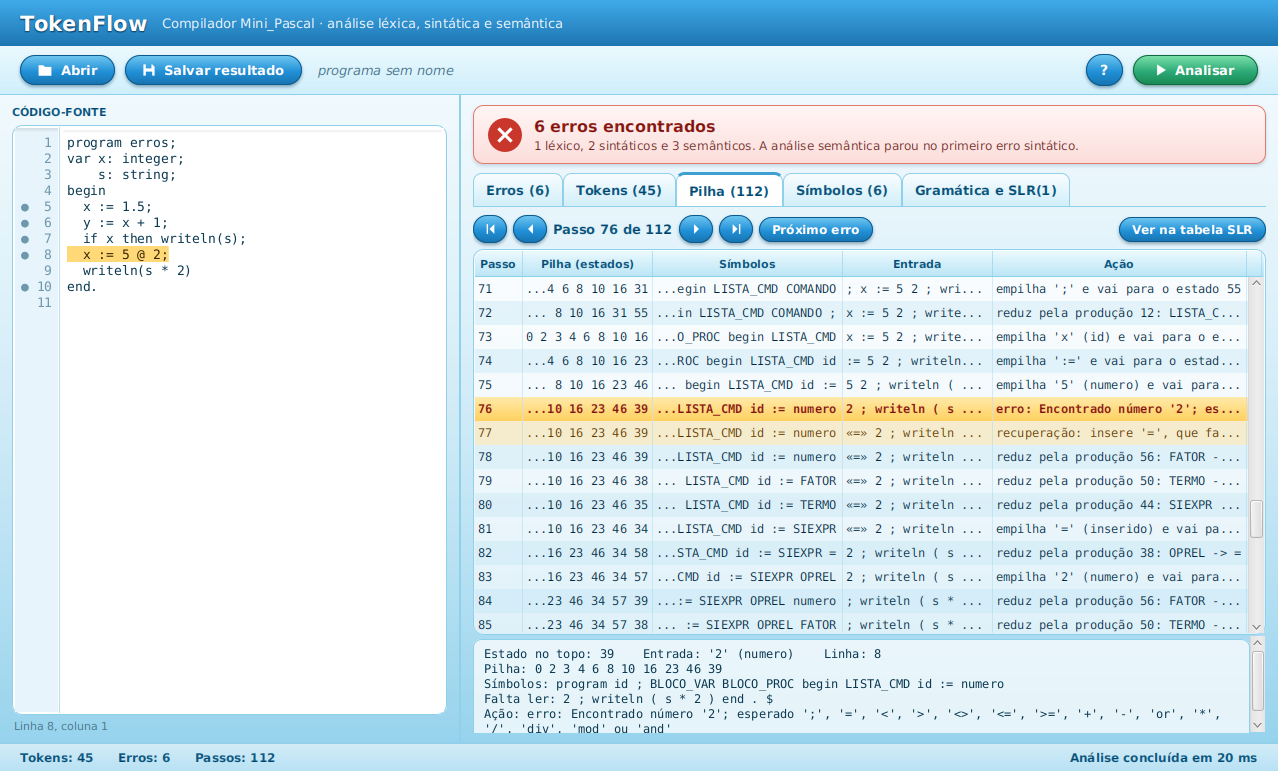
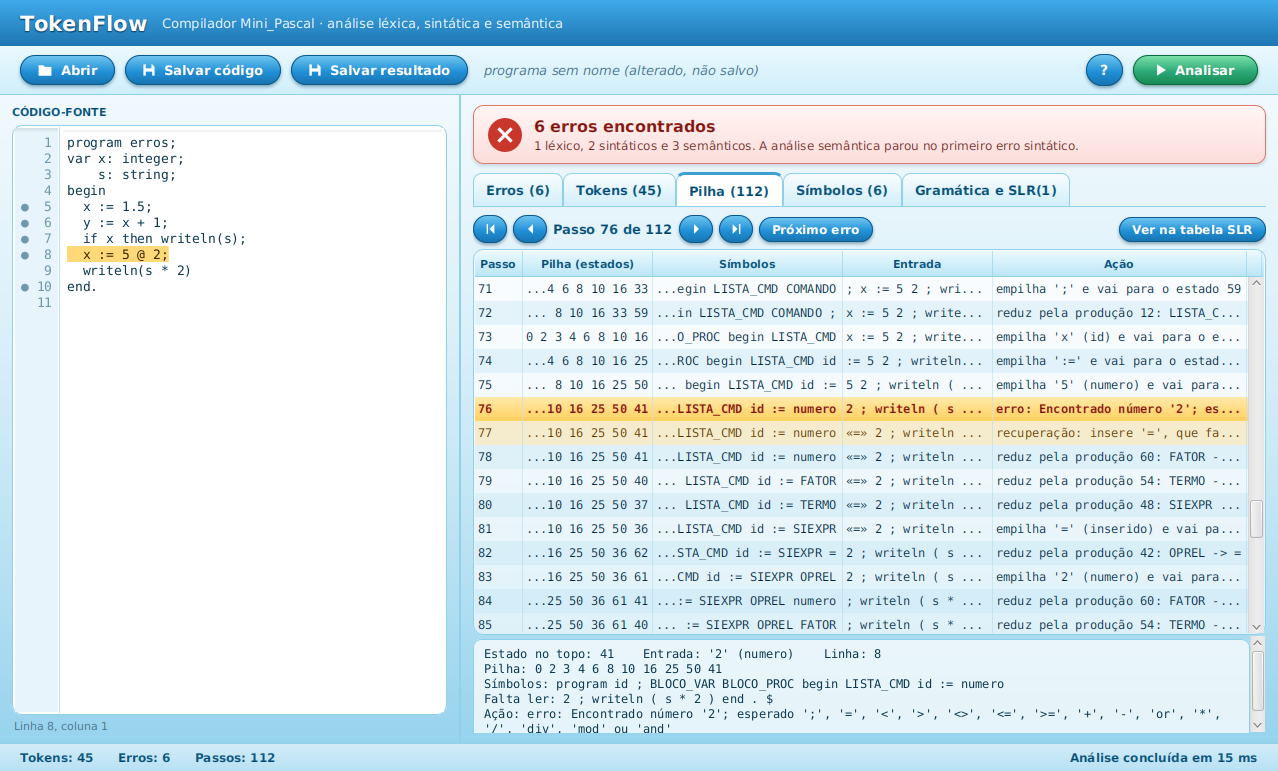
docs: README com o for, as correcoes da interface e da linha de comando

diff --git a/README.md b/README.md
@@ -8,7 +8,7 @@
 
 ![Java](https://img.shields.io/badge/Java-8-orange?logo=openjdk&logoColor=white)
 ![JavaFX](https://img.shields.io/badge/JavaFX-Interface%20Gráfica-blue?logo=java&logoColor=white)
-![Testes](https://img.shields.io/badge/testes%20automatizados-673%20passing-success)
+![Testes](https://img.shields.io/badge/testes%20automatizados-712%20passing-success)
 
 </div>
 
@@ -52,8 +52,8 @@ seguem a ordem das fases do compilador:
 
 Clicar num erro, token, passo ou símbolo seleciona a linha correspondente no código. Com um
 passo selecionado, **Ver na tabela SLR** abre a tabela ACTION/GOTO na célula que o analisador
-usou naquele passo. Atalhos: `Ctrl+O` abre um arquivo, `F5` ou `Ctrl+Enter` analisa e `Ctrl+S`
-salva o resultado; o botão `?` resume tudo isso.
+usou naquele passo. Atalhos: `Ctrl+O` abre um arquivo, `Ctrl+Shift+S` salva o código do editor,
+`F5` ou `Ctrl+Enter` analisa e `Ctrl+S` salva o resultado; o botão `?` resume tudo isso.
 
 ![Tela do TokenFlow: pilha da análise parada num erro sintático](docs/screenshot.png)
 
@@ -85,7 +85,7 @@ compara com o analisador.
 **Análise sintática**
 
 - ✅ Gramática do enunciado em arquivo de texto (`gramatica.txt`), convertida para GLC, sem
-  conflitos SLR(1): 61 produções, 120 estados
+  conflitos SLR(1): 65 produções, 132 estados
 - ✅ Gerador próprio de tabelas SLR(1): FIRST, FOLLOW, coleção canônica LR(0), tabelas
   ACTION/GOTO, recusa de qualquer conflito, relatório completo e tabela em CSV
 - ✅ Analisador empilha/reduz com pilha de estados e pilha de atributos, onde a análise
@@ -111,14 +111,21 @@ compara com o analisador.
 **Interface gráfica**
 
 - ✅ Carregar um `.txt` **ou** digitar/colar código direto na tela, com números de linha
-- ✅ Resultado da análise completa (`OK` ou os erros) e salvamento em arquivo UTF-8
+- ✅ Resultado da análise completa (`OK` ou os erros) e salvamento em arquivo UTF-8; se o
+  código mudou depois da análise, ele é analisado de novo antes de salvar, e o resultado não
+  pode ser gravado por cima do arquivo do programa
+- ✅ Salvar o código do editor; abrir outro arquivo ou fechar a janela com alterações não
+  salvas pergunta antes de descartá-las
+- ✅ Mesmo resultado da linha de comando para qualquer arquivo: quebras de linha `\r\n` e `\r`
+  viram `\n` ao carregar, e caracteres de controle (invisíveis) aparecem como `□`, a mesma
+  marca das mensagens de erro
 - ✅ Pilha do SLR(1) passo a passo, ligada ao código e à tabela ACTION/GOTO
 - ✅ Tokens, tabela de símbolos, gramática, FIRST/FOLLOW e estados LR(0)
 - ✅ Aviso quando o código muda depois da análise; atalhos de teclado e ajuda
 
 **Testes**
 
-- ✅ **673 verificações automatizadas** em 17 suítes, sem JUnit: casos absurdos e de robustez
+- ✅ **712 verificações automatizadas** em 17 suítes, sem JUnit: casos absurdos e de robustez
   do léxico (número colado em identificador, comentário "aninhado", CRLF e CR solto, emoji,
   arquivo ANSI/UTF-16, locale turco...), tabelas SLR conferidas com o livro do Dragão,
   mensagens de erro exatas, programas gerados a partir da gramática, recuperação de erros
@@ -127,8 +134,8 @@ compara com o analisador.
   escopos, programas gerados bem tipados e com um erro injetado de cada tipo), regras de
   arquitetura e os arquivos de teste da Unidade II
 - ✅ 8 arquivos de teste de integração do léxico, incluindo os dois exemplos do enunciado
-- ✅ 10 arquivos de teste da Unidade II (dois programas corretos, um para cada tipo de erro,
-  um com erros misturados e o programa da apresentação), cada um com o resultado esperado
+- ✅ 11 arquivos de teste da Unidade II (dois programas corretos, um para cada tipo de erro,
+  um para o `for`, um com erros misturados e o programa da apresentação), cada um com o resultado esperado
   conferido à mão
 
 ## Arquitetura
@@ -155,7 +162,7 @@ src/minipascal/
 │   │                TabelaSimbolos, Simbolo, Tipo, Compilador (as três fases juntas)
 │   └── verificacao/  suítes da análise semântica
 ├── cli/           → linha de comando: AnaliseLexica, AnaliseSintatica, AnaliseSemantica,
-│                    GeradorTabelas, Console
+│                    GeradorTabelas, Console, Caminhos
 ├── gui/           → interface JavaFX: MainApp, AnalisadorController, Main.fxml,
 │                    EditorCodigo, PainelSLR, application.css, icon.png
 └── verificacao/   → VerificacaoArquitetura (regras entre os módulos)
@@ -215,6 +222,10 @@ Se o `PATH` apontar para outro Java, chame o JDK 8 pelo caminho completo:
   (`gramatica.txt` ou `expressoes.txt`). Grava `<nome>_tabela_slr.txt` (gramática numerada,
   FIRST, FOLLOW, estados LR(0) com itens e transições, tabela e conflitos) e
   `<nome>_tabela_slr.csv`. Código de saída 1 se a gramática for inválida ou tiver conflitos.
+
+Antes de analisar, os caminhos são conferidos: entrada que é uma pasta, saída igual à entrada,
+saída que é uma pasta ou pasta de saída que não existe dão uma mensagem dizendo isso (e código
+de saída 1), sem analisar nem gravar nada.
 
 No console os acentos são removidos, porque o console do Windows com Java 8 não os mostra;
 os arquivos gravados ficam em UTF-8, com acentos.
@@ -304,7 +315,7 @@ resultados esperados foram conferidos e traz o roteiro da apresentação.
 
 | Arquivo | O que testa | Resultado |
 |---|---|---|
-| `01_programa_completo.txt` | Programa correto com toda a linguagem | `OK` |
+| `01_programa_completo.txt` | Programa correto com toda a linguagem (inclusive o `for`) | `OK` |
 | `02_erros_lexicos.txt` | Caracteres inválidos, número mal formado, char com dois caracteres e comentário sem fechar | 10 erros léxicos |
 | `03_erros_sintaticos.txt` | Símbolos faltando ou trocados, e a recuperação | 10 erros sintáticos |
 | `04_erros_semanticos_nomes.txt` | Declarações repetidas, nomes não declarados, escopo, categoria | 16 erros semânticos |
@@ -312,6 +323,7 @@ resultados esperados foram conferidos e traz o roteiro da apresentação.
 | `06_erros_semanticos_chamadas.txt` | Argumentos, parâmetros `var`, `read`/`write`/`writeln` | 19 erros semânticos |
 | `07_escopos.txt` | Procedimentos aninhados, nomes escondidos, recursão | `OK` |
 | `08_erros_misturados.txt` | Erros das três fases juntos | 10 erros |
+| `09_comando_for.txt` | `for` correto (to, downto, char, aninhado) e cada regra do `for` | 10 erros semânticos |
 | `apresentacao.txt` | Programa da apresentação, com um erro de cada fase | 4 erros |
 | `apresentacao_corrigido.txt` | O mesmo programa corrigido | `OK` |
 
@@ -319,7 +331,7 @@ resultados esperados foram conferidos e traz o roteiro da apresentação.
 
 A gramática fica em `src/minipascal/sintatico/gramatica/gramatica.txt`, uma regra por linha
 (`EXPR -> SIEXPR | SIEXPR OPREL SIEXPR`, não terminais em MAIÚSCULAS, `ε` para a produção
-vazia). É a gramática do enunciado convertida de EBNF para GLC, com seis modificações,
+vazia). É a gramática do enunciado convertida de EBNF para GLC, com sete modificações,
 descritas também no começo do arquivo:
 
 1. **Sinal `-` em SIEXPR.** No enunciado aparece `""` (aspas vazias) no lugar do sinal.
@@ -341,8 +353,15 @@ descritas também no começo do arquivo:
    de `*`, `div` e `mod`) e `or` em SIEXPR (junto de `+` e `-`). Como no Pascal, comparações
    ligadas por `and`/`or` precisam de parênteses: `(a < b) and (c < d)`; sem eles,
    `a < b and c < d` é lido como `a < (b and c) < d`, que é erro de sintaxe.
+7. **Comando `for`**, como no Pascal: `for i := 1 to 10 do ...` e `for i := 10 downto 1 do
+   ...`. O enunciado reserva `for`, `to` e `downto` (e o exemplo Piloto usa `for`), mas a
+   gramática da Unidade II não tinha o comando. Segue o `while`, com uma versão fechada e uma
+   aberta (modificação 3), e o cabeçalho vira um não terminal próprio,
+   `CAB_FOR -> for id := EXPR to EXPR | for id := EXPR downto EXPR`, pelo mesmo motivo do
+   `CAB_PROC`: ao reduzi-lo, antes do corpo, a análise semântica confere a variável de
+   controle e os limites.
 
-Resultado: 61 produções, 22 não terminais, 37 terminais (mais o `$`), 120 estados LR(0) e nenhum
+Resultado: 65 produções, 23 não terminais, 40 terminais (mais o `$`), 132 estados LR(0) e nenhum
 conflito.
 Também vem embutido `expressoes.txt`, o subconjunto das expressões usado na primeira etapa
 (22 produções, 34 estados), sem os operadores da modificação 6.
@@ -351,8 +370,8 @@ O gerador recusa qualquer gramática com conflito, produção repetida, não ter
 produção, inalcançável ou que não deriva terminais, sempre com a mensagem indicando onde
 está o problema.
 
-O que a gramática não aceita (e por isso vale como limitação da linguagem): `for`,
-`repeat`, `const`, funções, `;` antes do `else`, comparações ligadas por `and`/`or` sem
+O que a gramática não aceita (e por isso vale como limitação da linguagem): `repeat`,
+`case`, `const`, funções, `;` antes do `else`, comparações ligadas por `and`/`or` sem
 parênteses e parênteses vazios na declaração de procedimento. `read`, `write` e `writeln` são aceitos como chamadas de
 procedimento.
 
@@ -373,8 +392,8 @@ para que uma única execução mostre o conjunto dos erros do programa, como ped
 - **Sem cascata**: como a retomada escolhida sempre empilha pelo menos 4 tokens sem erro, um
   erro que é só consequência do anterior não aparece. O número 4 foi escolhido medindo, em
   milhares de programas com erros inseridos de propósito, quantos erros são encontrados e
-  quantos erros falsos aparecem: com 3, construções que não existem no Mini_Pascal (como o
-  `for` do segundo exemplo do enunciado) geram um segundo erro em cascata; com 5, erros em
+  quantos erros falsos aparecem: com 3, construções que não existem no Mini_Pascal geram um
+  segundo erro em cascata; com 5, erros em
   linhas vizinhas deixam de ser encontrados. Por isso, dois erros a menos de 4 tokens um do
   outro contam como um só.
 - **Mensagens**: o primeiro erro de cada programa é exatamente o da análise sem recuperação
@@ -387,11 +406,11 @@ para que uma única execução mostre o conjunto dos erros do programa, como ped
 - Um caractere inválido some da entrada da análise sintática; se o que sobra estiver errado
   (como `x := 5 @ 2`, que vira `x := 5 2`), aparecem os dois erros, o léxico e o sintático.
 
-Exemplo, com o segundo programa do enunciado (`02_piloto.txt`), que usa `for` (fora da
-gramática):
+Exemplo, com o segundo programa do enunciado (`02_piloto.txt`), cujo `for` usa `=` no lugar
+de `:=`:
 
 ```
-Erro sintático na linha 11: Encontrado 'for'; esperado identificador, 'begin', 'end', 'if' ou 'while'
+Erro sintático na linha 11: Encontrado '='; esperado ':='
 ```
 
 O resto do programa (inclusive o `/` das linhas 17 e 21) é analisado normalmente depois da
@@ -433,6 +452,7 @@ conversões permitidas: `integer` em `real` e `char` em `string`.
 | `and`, `or`, `not` | operandos lógicos (comparações); o resultado é lógico |
 | `=` `<` `>` `<>` `<=` `>=` | números entre si, textos entre si ou lógicos entre si; o resultado é lógico |
 | condição do `if` e do `while` | lógica (uma comparação) |
+| `for v := a to b` (ou `downto`) | `v` é uma variável integer ou char; `a` e `b` são do tipo de `v`; dentro do laço, `v` não pode ser alterada (atribuição, `read`, parâmetro `var` ou outro `for`). Não é conferido, como no Pascal ISO, se um procedimento chamado no laço altera `v` por fora |
 | chamada de procedimento | mesmo número de argumentos e de parâmetros; parâmetro `var` recebe uma variável do mesmo tipo |
 | `read` | pelo menos um argumento, todos variáveis |
 | `write` / `writeln` | `write` com pelo menos um argumento; `writeln` com qualquer quantidade |
@@ -450,6 +470,8 @@ O operador 'div' exige operandos integer, mas recebeu real e integer
 O operador 'and' exige operandos lógicos (comparações), mas recebeu integer e integer
 Comparação entre tipos incompatíveis: integer e string
 A condição do 'if' deve ser lógica (uma comparação), mas é integer
+O valor inicial do 'for' deve ser integer, como a variável 'i', mas é real
+'i' é a variável de controle de um 'for' e não pode ser alterada dentro dele
 O procedimento 'q' tem 2 parâmetros, mas a chamada passa 3 argumentos
 Argumento 1 de 'q': o parâmetro 'r' é var e precisa receber uma variável
 Argumento 2 de 'q': o parâmetro 'v' é real e o argumento é string
@@ -485,6 +507,8 @@ ambíguo - todas documentadas e testadas:
 - **Separadores**: espaço, tabulação, `\f`, `\v` e quebras de linha são ignorados; qualquer outro
   caractere fora da linguagem é erro léxico
 - **Quebra de linha**: `\n`, `\r\n` e `\r` sozinho contam uma linha cada
+- **Caractere de controle** (invisível, como o código 1 ou o DEL) fora de string é erro léxico;
+  na mensagem e no editor da interface ele aparece como `□` (`Caractere inválido: □`)
 - **Codificação do arquivo**: UTF-8 (com ou sem BOM); se não for UTF-8 válido, lê como
   ANSI (ISO-8859-1), e UTF-16 com BOM também é reconhecido
 - **Constante char aceita exatamente 1 caractere** - vazio (`''`) ou múltiplo (`'ab'`) são um
@@ -546,6 +570,8 @@ Respostas às perguntas de projeto (a-e) da especificação:
   pode avisar um observador (`OuvinteAnalise`) a cada ação; a interface usa isso para mostrar
   a pilha passo a passo, e sem observador a análise é a mesma de antes.
 
+- Comando `for` (modificação 7 da gramática), com as regras do Pascal para a variável de
+  controle e os limites.
 - Arquivos de teste da Unidade II com os resultados esperados conferidos à mão, a suíte
   `VerificacaoTestesUnidade2` e o programa da apresentação, descritos em "Arquivos de teste
   da Unidade II".
@@ -579,4 +605,4 @@ Trabalho da disciplina de **Compiladores**, curso de Ciência da Computação - 
 
 <div align="center">
 <sub>Feito para a disciplina de Compiladores - UESB, 2026</sub>
-</div>
+</div>

diff --git a/testes-integracao/unidade2/README.md b/testes-integracao/unidade2/README.md
@@ -14,7 +14,7 @@ Na interface, basta abrir o arquivo (Ctrl+O) e clicar em Analisar (F5).
 
 | Arquivo | O que testa | Resultado |
 |---|---|---|
-| `01_programa_completo.txt` | Programa correto que usa toda a linguagem: os quatro tipos, vários blocos `var`, procedimentos sem parâmetros, com parâmetros por valor e `var`, recursão, `if` com e sem `else` (inclusive o `else` pendente), `while`, blocos `begin`/`end`, todos os operadores (inclusive `/`, `and`, `or` e `not`), sinal, notação científica, comparação de comparações, as conversões permitidas (integer em real, char em string), `read`/`write`/`writeln` e maiúsculas/minúsculas | `OK` |
+| `01_programa_completo.txt` | Programa correto que usa toda a linguagem: os quatro tipos, vários blocos `var`, procedimentos sem parâmetros, com parâmetros por valor e `var`, recursão, `if` com e sem `else` (inclusive o `else` pendente), `while`, `for` com `to` e `downto` (inclusive com variável char), blocos `begin`/`end`, todos os operadores (inclusive `/`, `and`, `or` e `not`), sinal, notação científica, comparação de comparações, as conversões permitidas (integer em real, char em string), `read`/`write`/`writeln` e maiúsculas/minúsculas | `OK` |
 | `02_erros_lexicos.txt` | Caracteres fora da linguagem (`#`, `$`, `!` de `!=`, `{`, `}`, `?`, `π`), número colado em letras (`12abc`), char com dois caracteres (`'ab'`) e comentário nunca fechado. Sem eles o programa fica correto, então só aparecem erros léxicos e a análise semântica vai até o fim. Também: identificador com acento, identificador com mais de 63 caracteres (truncado, sem erro), número real com expoente sem ponto (`2E-3`) e caracteres especiais dentro de string e comentário (sem erro) | 10 erros léxicos |
 | `03_erros_sintaticos.txt` | Vírgula faltando na declaração, `)` faltando, `then` e `do` faltando, `=` no lugar de `:=`, `;` antes do `else`, operador sem operando, comparações ligadas por `and` sem parênteses, `);` faltando e `.` final faltando. Cada erro diz o que era esperado, e a recuperação permite encontrar todos numa execução só | 10 erros sintáticos |
 | `04_erros_semanticos_nomes.txt` | Variável, parâmetro e procedimento declarados duas vezes no mesmo escopo; nome não declarado (relatado uma vez por escopo); variável local usada fora do procedimento; procedimento chamado antes de ser declarado; procedimento usado como variável e o contrário; atribuição ao nome do programa e a `read` | 16 erros semânticos |
@@ -22,6 +22,7 @@ Na interface, basta abrir o arquivo (Ctrl+O) e clicar em Analisar (F5).
 | `06_erros_semanticos_chamadas.txt` | Número de argumentos (a mais e a menos), tipo de cada argumento, parâmetro `var` recebendo constante, expressão, expressão entre parênteses e variável de outro tipo; `read` sem argumentos ou com expressão; `write` sem argumentos; `writeln` sem argumentos (válido) | 19 erros semânticos |
 | `07_escopos.txt` | Programa correto com procedimento dentro de procedimento (níveis 1, 2 e 3), parâmetro que esconde a variável de fora, uso de nomes de fora, recursão, nome do programa e `write` redeclarados, maiúsculas/minúsculas. A tabela de símbolos mostra cada escopo | `OK` |
 | `08_erros_misturados.txt` | Erros das três fases no mesmo programa: ordem por linha e, na mesma linha, pela posição; erro léxico que causa erro sintático (`5 @ 2`); string sem fechar; a análise semântica para no primeiro erro sintático (o erro de tipo da linha 18 não aparece), e a tabela de símbolos avisa isso | 4 léxicos, 3 sintáticos, 3 semânticos |
+| `09_comando_for.txt` | Comando `for`: corretos com `to` e `downto`, variável char, `for` dentro de `for`, de `if` (com o `else` do `if`) e de procedimento, e a variável lida dentro do laço; erros com variável de controle real, string, procedimento e não declarada, limite real numa variável integer e integer numa char, e variável de controle alterada dentro do laço por atribuição, `read`, parâmetro `var` e outro `for` | 10 erros semânticos |
 | `apresentacao.txt` | Programa da apresentação, com um erro de cada fase (ver o roteiro abaixo) | 1 léxico, 1 sintático, 2 semânticos |
 | `apresentacao_corrigido.txt` | O mesmo programa com os quatro erros corrigidos | `OK` |
 
@@ -76,9 +77,9 @@ fase e dois semânticos:
    inteira aparece ao parar o mouse sobre ela.
 4. Na aba **Tokens**, mostre o `!` classificado como erro léxico (a saída da Unidade I).
 5. Na aba **Pilha**, clique em **Próximo erro**: é o passo em que o analisador acabou de
-   ler o `18` de `if faltas > 18` (estado 39) e encontrou `writeln`. O detalhe embaixo mostra
+   ler o `18` de `if faltas > 18` (estado 41) e encontrou `writeln`. O detalhe embaixo mostra
    a pilha, os símbolos, o que falta ler e a ação. Clique em **Ver na tabela SLR**: a célula
-   ACTION[39, id] está vazia, e é por isso que é um erro. De volta à Pilha, o passo seguinte
+   ACTION[41, id] está vazia, e é por isso que é um erro. De volta à Pilha, o passo seguinte
    é a recuperação em modo pânico: desempilha 5 estados, considera a lista de comandos
    reconhecida (o `if` incompleto fica para trás) e continua a análise no `writeln`.
 6. Corrija os erros no próprio editor; a faixa fica amarela avisando que o código mudou:
@@ -87,7 +88,9 @@ fase e dois semânticos:
    - linha 21: `<>` no lugar de `!=`
    - linha 23: `then` antes do `writeln`
    
-   O resultado é igual a `apresentacao_corrigido.txt`, que pode ser aberto se não der tempo.
+   O resultado é igual a `apresentacao_corrigido.txt`, que pode ser aberto se não der tempo
+   (como o código foi alterado, Abrir pergunta antes: escolha **Descartar alterações**, para
+   não mudar o arquivo de teste).
 7. Analise de novo (F5): a faixa fica verde com "OK: o programa está correto".
 8. Na aba **Símbolos**, mostre os escopos: `externo` (nível 0: predefinidos e o nome do
    programa), `global` (nível 1) e `calcular` (nível 2), com os parâmetros e o `var`.
